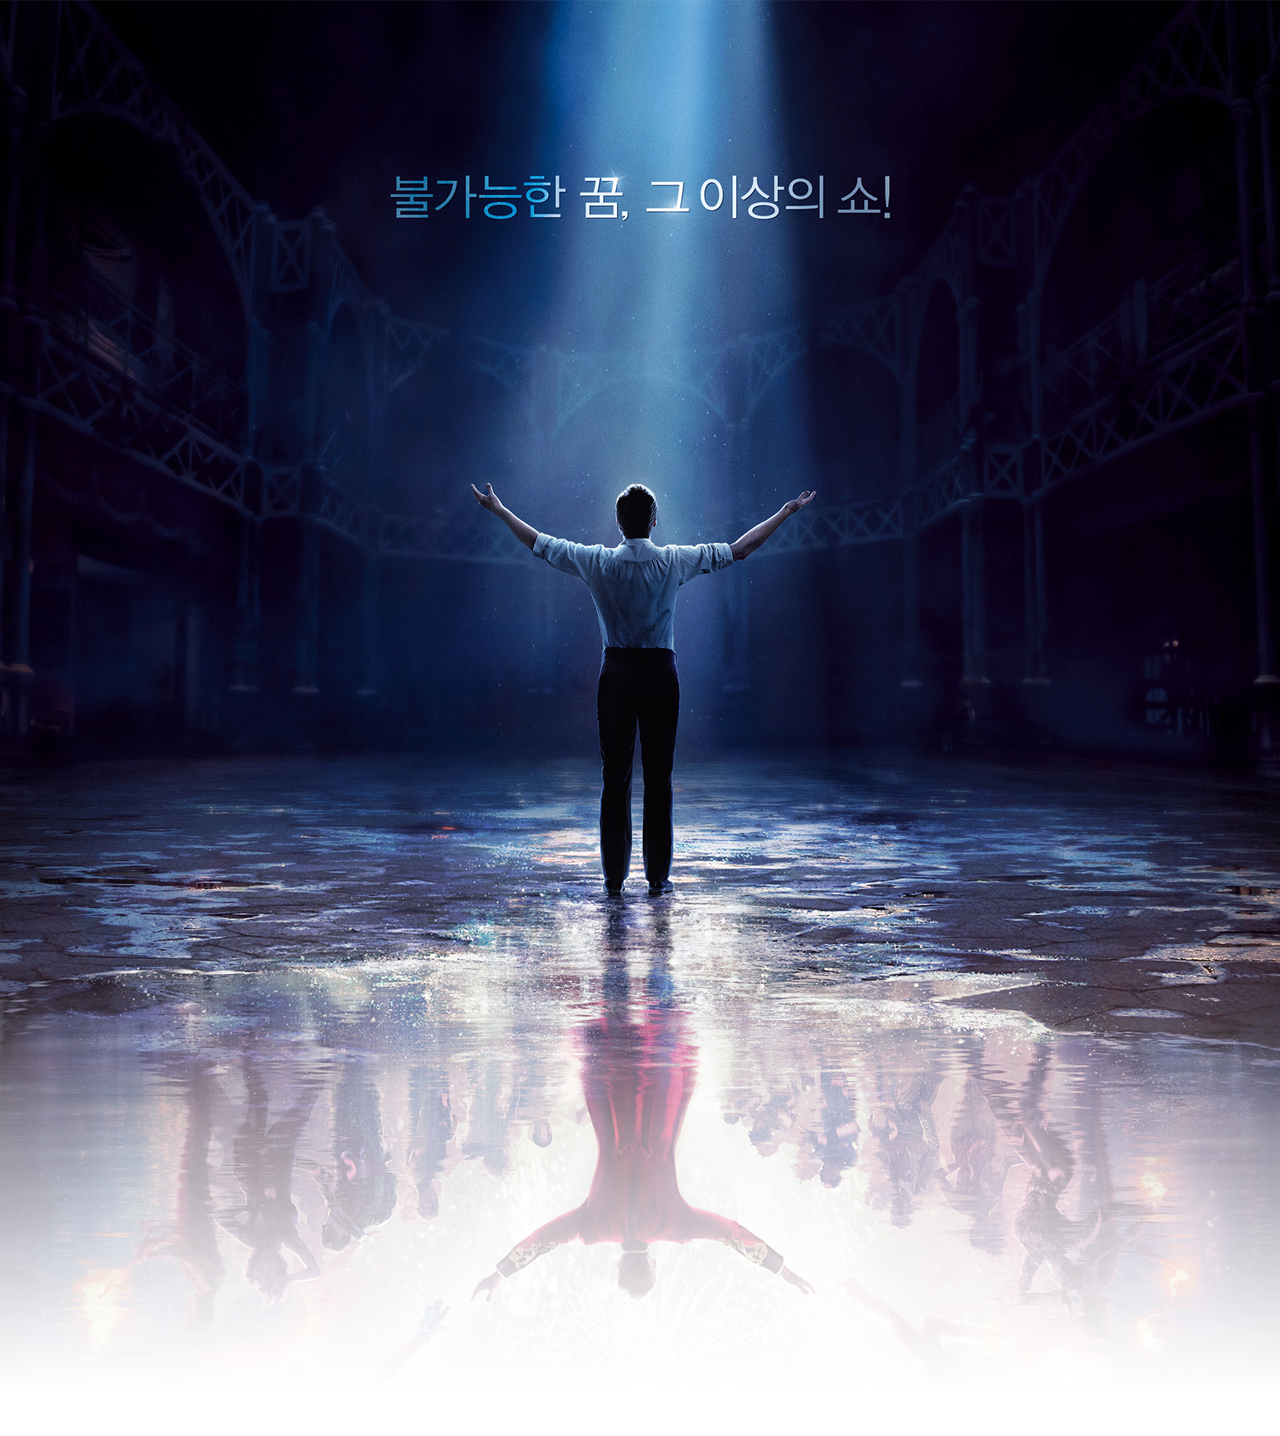
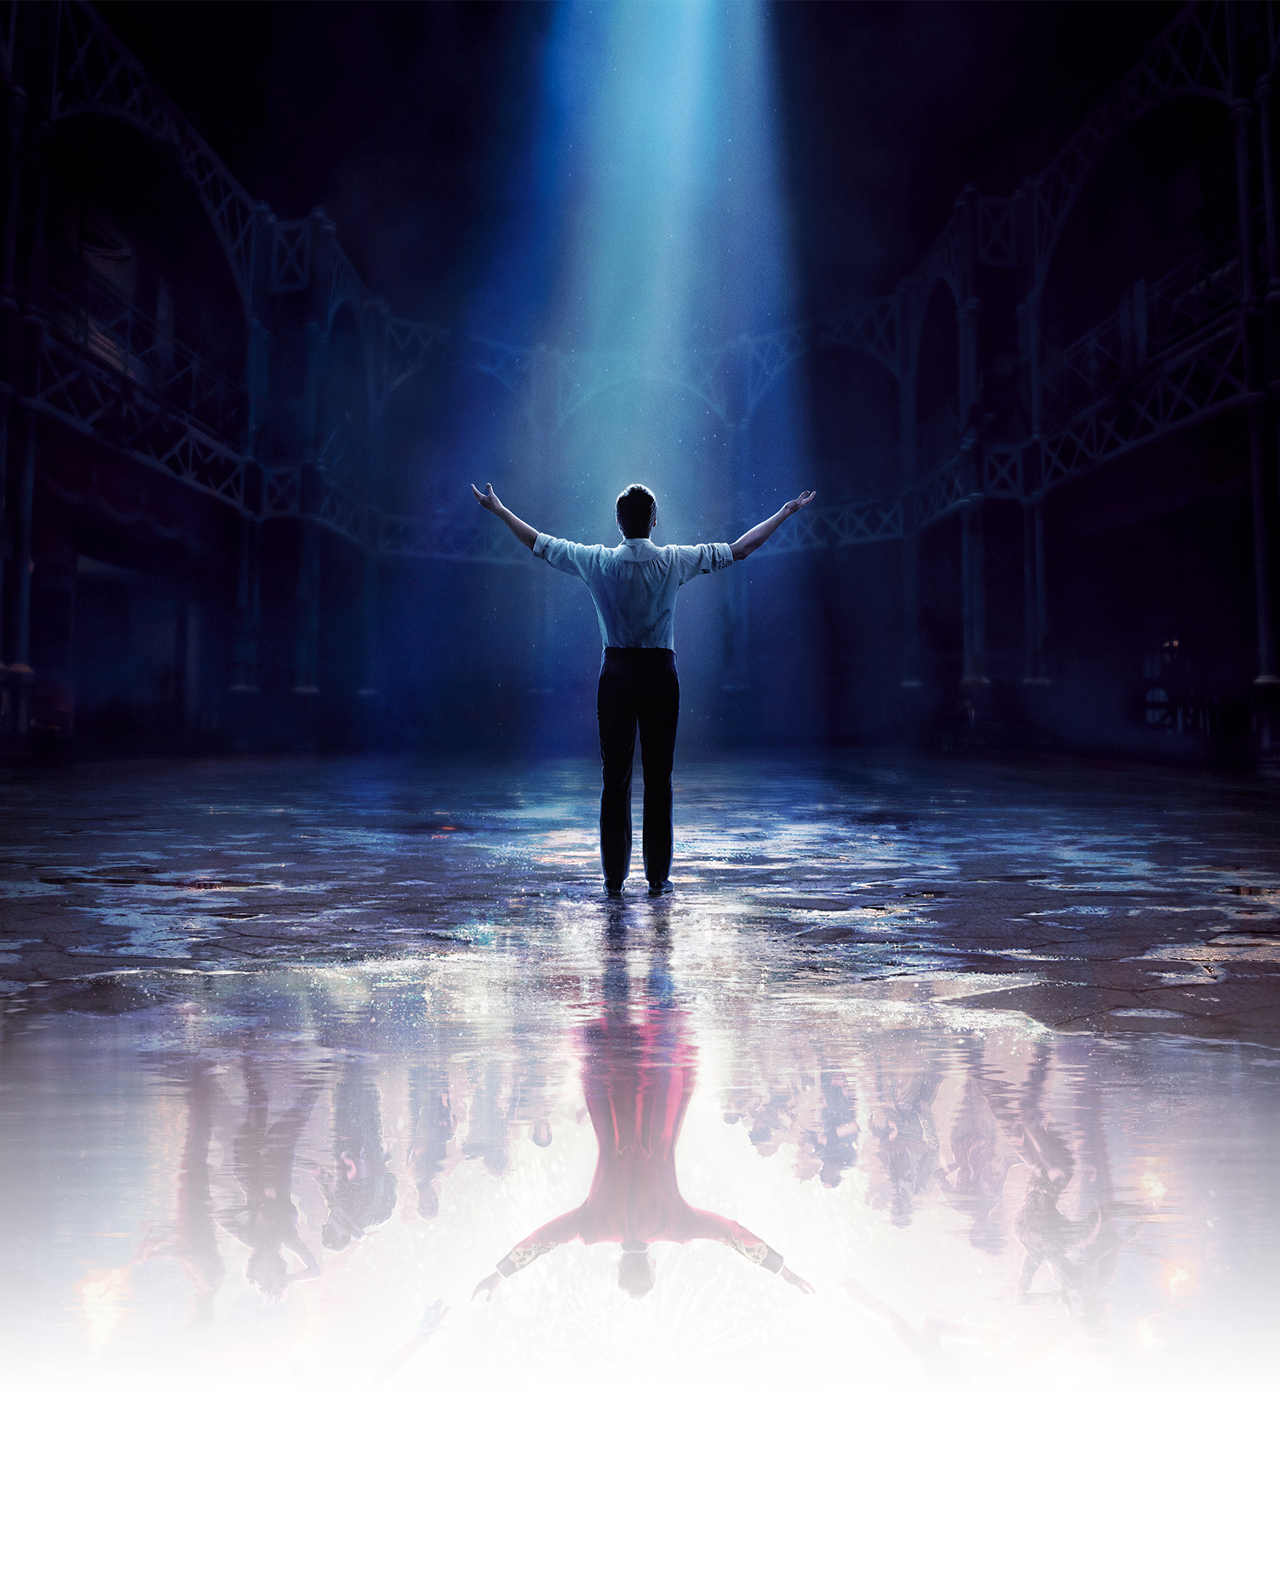
2020-10-13

diff --git a/index2.html b/index2.html
@@ -30,17 +30,10 @@
 <div id="stars2"></div>
 <div id="stars3"></div>
 <div id="title">
-  <span>
-    PURE CSS
-  </span>
-  <br />
-  <span>
-    PARALLAX PIXEL STARS
-  </span>
 </div>
 <!-- 유니버스 -->
     <section id="section01" class="relative">
-        <div class="container">
+        <div class="container-fluid">
             <div class="row">
                 <div class="col-sm-12 sec01-content">
                     <img src="images/sec01-bg.png" alt="위대한쇼맨 포스터배경" class="poster relative">
@@ -66,7 +59,7 @@
                     <div class="sec02-text-box flex-aline">
                         <div class="text-box absolute">
                             <h1 class="sec02-title white-text text-center Heiro-font">SYNOPSIS</h1>
-                            <p class="sec02-p white-text text-center Nanum-Myeongjo-font">쇼 비즈니스의 창시자이자, 꿈의 무대로 전세계를 매료시킨 남자
+                            <p class="sec02-p white-text text-center Nanum-BarunGothic">쇼 비즈니스의 창시자이자, 꿈의 무대로 전세계를 매료시킨 남자
                                 ‘바넘’의 이야기에서 영감을 받아 탄생한 오리지널 뮤지컬 영화 <위대한 쇼맨>.<br>
                                 <레미제라블> 이후 다시 뮤지컬 영화로 돌아온 
                             휴 잭맨부터 잭 에프론, 미셸 윌리엄스, 레베카 퍼거슨, 젠다야까지
@@ -121,28 +114,95 @@
     <section id="section04">
         <div class="container">
             <div class="row">
-                <div class="col-sm-6 space-02">
+                <div class="col-sm-12 space-02">
                     <h1 class="sec02-title white-text  Heiro-font text-center">CHARACTER</h1>
-                    <p class="sec02-p white-text text-center Nanum-Myeongjo-font">“다른 사람들을 행복하게 하는것이 진정한 예술이지.”</p>
-                    <img src="images/character-01.png" alt="바넘소개">
-                    <p class="sec02-p white-text text-center Nanum-Myeongjo-font">“동업 합시다. 50:50으로”</p>
+                    <div class="sec04-img">
+                        <img src="images/character-01.png" alt="바넘소개">
+                        <p class="sec02-p white-text text-center Nanum-Myeongjo-font">“다른 사람들을 행복하게 하는것이 진정한 예술이지.”</p>
+                    </div>
+                    <div class="sec04-img">
+                        <p class="sec02-p white-text text-center Nanum-Myeongjo-font">“동업 합시다. 50:50으로”</p>     
                     <img src="images/character-02.png" alt="칼라일소개">
-                    <p class="sec02-p white-text text-center Nanum-Myeongjo-font">“모두에게 사랑받을 필욘없어요 
-                        곁에 좋은사람만 몇있으면 된거예요”</p>
+
+                    </div>
+                    <div class="sec04-img">
                         <img src="images/character-03.png" alt="채러티소개">
+                        <p class="sec02-p white-text text-center Nanum-Myeongjo-font">“모두에게 사랑받을 필욘없어요 
+                            곁에 좋은사람만 몇있으면 된거예요”</p>
+                    </div>
+                    <div class="sec04-img ">
+
                         <p class="sec02-p white-text text-center Nanum-Myeongjo-font">“부와 명예를 가지고 태어난 사람은 그것을 모르죠”</p>
                         <img src="images/character-04.png" alt="제니린드소개">
-                        <img src="images/logo.png" 
+
+                    </div>
+
+
+                    
+
+<div class="logo-img flex-aline">
+                            <img src="images/logo.png" 
                         alt="위대한쇼맨텍스트로고" class="text-logo">
+</div>
+
                 </div>
             </div>
         </div>
     </section>
     <section id="section05">
-        <div class="container">
+        <div class="container-fluid">
             <div class="row">
                 <div class="col-sm-12">
+                    <div class="sec05-question flex-aline">
+                            <h1 class=" Nanum-BarunGothic white-text sec05-text01 ">위대한 쇼맨의 노래 제목을 맞춰라!</h1>
+                    </div>
+                    <div class="sec05-event-can01 flex-aline relative">
+                        <div class="sec05-event-can">
+                            <div class="container" style="margin: 5% 0;">
+                                <div class="row flex-aline">
+                            <div class="col-sm-3 sec05-a-img-01 ">
+                                <h1 class="text-center white-text Nanum-BarunGothic event-font-size-medium">이벤트 <br> 참여안내</h1> 
+                            </div>
+                            <div class="col-sm-9">
+                            <h1 class="white-text Nanum-BarunGothic event-font-size-small">① 하단의 버튼을 눌러 정답을 창에 바로 입력한다 </h1>
+                            <h1 class="white-text Nanum-BarunGothic event-font-size-small">②정답을 맞춘 후 2020년 12월 4일 당첨자발표를 
+                                즐겁게 기다린다 ! </h1>                                
+                            </div>                                    
+                                </div>
+                            </div>
 
+                        </div>
+                    </div>
+                    <div class="sec05-event-can02 flex-aline flex-column relative" style="margin: 5% 0;">
+                        <div class="sec05-event-text03">
+                            <h1 class="white-text Nanum-BarunGothic text-center event-font-size-medium">이벤트 경품</h1>
+                        </div>
+                        <img src="images/Untitled-5-removebg-preview.png" alt="">
+                        <p class="text-center white-text Nanum-BarunGothic event-font-size-small">위대한 쇼맨의 주연 휴잭맨의 사인이 새겨진 
+                            <br>위대한 쇼맨 한정 LP판<br>(10명)
+                            </p>
+                    </div>
+                    <div class="container">
+                        <div class="row">
+                            <div class="col-sm-12 sec05-event-can03" style="margin: 5% 0;">
+                                <div class="q-text">
+                                    <h1 class="Nanum-BarunGothic white-text sec05-event text-center event-font-size-medium">위대한 쇼맨에서 가장 잘 알려진 곡으로 타인의 말에 <br>
+                                        잔인하게 상처를 받더라도 자신은 고귀하고 멋진 사람이라는 <br>
+                                        내용을 노래한 노래의 제목은 무엇일까요?<br>
+                                        <span style="font-size: 2rem;">*영문으로 기재해주세요*</span> </h1>
+                                        <div class="sec05-btn flex-aline flex-column">
+                                            <input type="text" placeholder="이곳에 답을 입력해주세요." class="text-center">
+                                            <button class="Nanum-BarunGothic">제출하기</button>                                              
+                                        </div>
+               
+                                </div>
+                            </div>                            
+                        </div>
+                    </div>
+
+                    <div class="img-ss">
+                        <img src="images/sec05-bg.png" alt="">
+                    </div>
                 </div>
             </div>
         </div>

diff --git a/css/css2.css b/css/css2.css
@@ -20,6 +20,34 @@ body{
 /* 빛의계승자체 Regular */
 @import url(//fonts.googleapis.com/earlyaccess/nanummyeongjo.css); .nanummyeongjo * { font-family: 'Nanum Myeongjo', serif; }
 /* 나눔명조 Regular */
+@font-face {
+    font-family: 'NanumBarunGothic';
+    font-style: normal;
+    font-weight: 400;
+    src: url('//cdn.jsdelivr.net/font-nanumlight/1.0/NanumBarunGothicWeb.eot');
+    src: url('//cdn.jsdelivr.net/font-nanumlight/1.0/NanumBarunGothicWeb.eot?#iefix') format('embedded-opentype'), url('//cdn.jsdelivr.net/font-nanumlight/1.0/NanumBarunGothicWeb.woff') format('woff'), url('//cdn.jsdelivr.net/font-nanumlight/1.0/NanumBarunGothicWeb.ttf') format('truetype');
+   }
+   
+   @font-face {
+    font-family: 'NanumBarunGothic';
+    font-style: normal;
+    font-weight: 700;
+    src: url('//cdn.jsdelivr.net/font-nanumlight/1.0/NanumBarunGothicWebBold.eot');
+    src: url('//cdn.jsdelivr.net/font-nanumlight/1.0/NanumBarunGothicWebBold.eot?#iefix') format('embedded-opentype'), url('//cdn.jsdelivr.net/font-nanumlight/1.0/NanumBarunGothicWebBold.woff') format('woff'), url('//cdn.jsdelivr.net/font-nanumlight/1.0/NanumBarunGothicWebBold.ttf') format('truetype')
+   }
+   
+   @font-face {
+    font-family: 'NanumBarunGothic';
+    font-style: normal;
+    font-weight: 300;
+    src: url('//cdn.jsdelivr.net/font-nanumlight/1.0/NanumBarunGothicWebLight.eot');
+    src: url('//cdn.jsdelivr.net/font-nanumlight/1.0/NanumBarunGothicWebLight.eot?#iefix') format('embedded-opentype'), url('//cdn.jsdelivr.net/font-nanumlight/1.0/NanumBarunGothicWebLight.woff') format('woff'), url('//cdn.jsdelivr.net/font-nanumlight/1.0/NanumBarunGothicWebLight.ttf') format('truetype');
+   }
+   
+   .nanumbarungothic * {
+    font-family: 'NanumBarunGothic', sans-serif;}
+    
+    /* 나눔바른고딕 */
 /* 여러 설정 css들 */
 .relative{
     position: relative;
@@ -58,6 +86,10 @@ body{
     font-family: 'Nanum Myeongjo', serif;
 }
 
+.Nanum-BarunGothic{
+    font-family: 'NanumBarunGothic';
+}
+
 .ss{
     width: 100%;
     height: 2px;
@@ -74,7 +106,7 @@ body{
 
 
 .text-logo{
-    width: 70%;
+    width: 50%;
     top: 60%;
     margin: 0 auto;
 }
@@ -187,15 +219,18 @@ width: 100%;
 
 /* sec04 */
 
-.space-02{
-    width: 100%;
-    height: 100vh;
-    /* background: url(../images/space-bg-02.jpg);
-    background-repeat: no-repeat;
-    background-size: 100%; */
+.sec04-img{
+    display: flex;
+    align-items: center;
+}
+.sec04-img img,.sec04-img p {
+    width: 50%;
+    margin: 0 auto;
 }
 
-
+.logo-img{
+    width: 100%;
+}
 
 
 /* 유니버스 */
@@ -292,7 +327,60 @@ html {
 
 
 /* section05 */
+.event-font-size-small{
+    font-size: 25px;
+}
+.event-font-size-medium{
+    font-size: 30px;
+}
 #section05{
     width: 100%;
     height: 100vh;
+}
+.sec05-question{
+    width: 100%;
+    padding:5% 0;
+    background: url(../images/sec05-can-01.png);
+    background-repeat: no-repeat;
+    background-size: 100% 100%;
+}
+.sec05-a-img-01{
+    width: 30%;
+    background: url(../images/sec05-can-02.png);
+    background-repeat: no-repeat;
+    background-size: 100% 100%;
+}
+.sec05-event-text03{
+    width: 20%;
+
+    background: url(../images/sec05-can-03.png);
+    background-repeat: no-repeat;
+    background-size: 100% 100%;
+}
+.q-text{
+    width: 100%;
+    padding: 5% 0;
+    background: url(../images/sec05-can-04.png);
+    background-repeat: no-repeat;
+    background-size: 100% 100%;
+
+}
+.sec05-btn input{
+    background: #ccc;
+    width: 342px;
+    height: 50px;
+    margin: 0 auto;
+}
+.sec05-btn button{
+    background: #0c2651;
+    color: #fff;
+    border: none;
+    margin-top: 2%;
+    padding: 1% 5%;
+}
+/* 0c2651 */
+
+.img-ss{
+    display: flex;
+    justify-content: center;
 }
